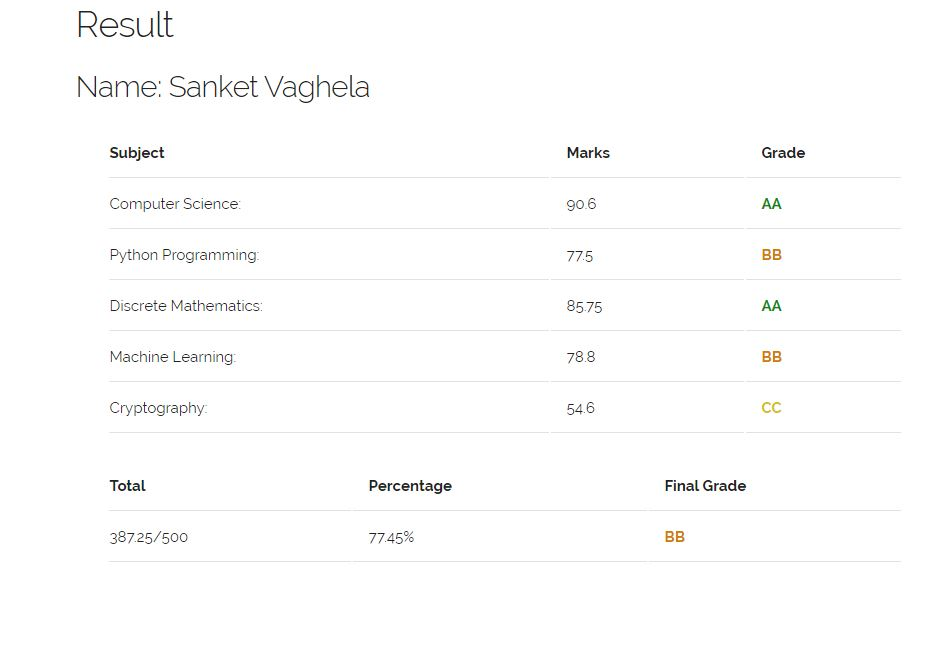
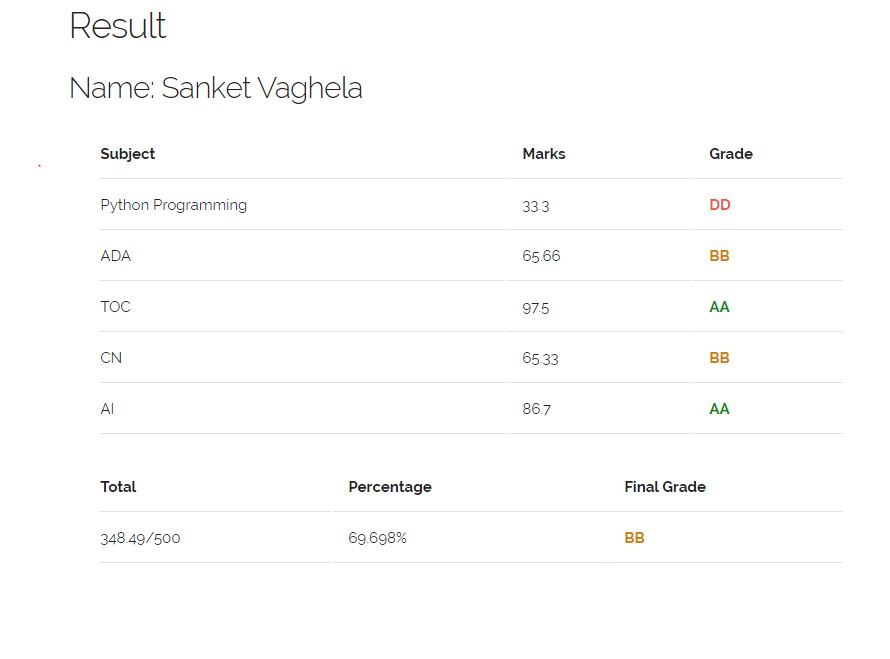
feat:Dynamic subject name

diff --git a/Day-3/Task-4-calc-marks/display.php b/Day-3/Task-4-calc-marks/display.php
@@ -24,20 +24,6 @@
 <body>
 	<div class="container">
 		<?php 
-			$name = $_GET['name'];
-			$computerScience = (double)$_GET['computer-science'];
-			$pythonProgramming = (double)$_GET['python-programming'];
-			$discreteMathematics = (double)$_GET['discrete-mathematics'];
-			$machineLearning = (double)$_GET['machine-learning'];
-			$cryptography = (double)$_GET['cryptography'];
-			$marks = Array($computerScience, $pythonProgramming, $discreteMathematics,$machineLearning, $cryptography);
-			
-			//marks validation
-			for ($i=0; $i < count($marks); $i++) { 
-				if($marks[$i] < 0 || $marks[$i] > 100)
-					header("location: index.php");
-			}
-			$isStudentFail = false;
 
 			function getGrade($marks){
 				global $isStudentFail;
@@ -61,6 +47,11 @@
 				return $grade;
 			}
 
+			$name = $_GET['name'];
+			$i = 1;
+			$totalMarks = 0;
+			$totalSocredMarks = 0; 
+		
 		?>
 		<h3>Result</h3>
 		<h4>Name: <?php echo "$name"; ?></h4>
@@ -73,36 +64,23 @@
 				</tr>
 			</thead>
 			<tbody>
-				<tr>
-					<td>Computer Science:</td>
-					<td><?php echo "$computerScience"; ?></td>
-					<td><?php echo getGrade($computerScience); ?></td>
-				</tr>
-				<tr>
-					<td>Python Programming:</td>
-					<td><?php echo "$pythonProgramming"; ?></td>
-					<td><?php echo getGrade($pythonProgramming); ?></td>
-				</tr>
-				<tr>
-					<td>Discrete Mathematics:</td>
-					<td><?php echo "$discreteMathematics"; ?></td>
-					<td><?php echo getGrade($discreteMathematics); ?></td>
-				</tr>
-				<tr>
-					<td>Machine Learning:</td>
-					<td><?php echo "$machineLearning"; ?></td>
-					<td><?php echo getGrade($machineLearning); ?></td>
-				</tr>
-				<tr>
-					<td>Cryptography:</td>
-					<td><?php echo "$cryptography"; ?></td>
-					<td><?php echo getGrade($cryptography); ?></td>
-				</tr>
-				<?php 
-					$totalMarks = count($marks) * 100;
-					$totalSocredMarks = array_sum($marks); 
-					
-					$percentage = $totalSocredMarks / $totalMarks * 100;
+			<?php 
+				foreach ($_GET as $key => $value) {
+					if ($key == 'submit' || $key == 'name') {
+						continue;
+					}
+					if($i % 2 == 1){ 
+						$totalMarks += 100;
+						echo "<tr><td>$value</td>";
+					}else{
+						$marks = (double)$value;
+						$totalSocredMarks += $marks;
+						echo "<td>$marks</td>";
+						echo "<td>".getGrade($marks)."</td></tr>";
+					}
+					$i++; 
+				}
+				$percentage = $totalSocredMarks / $totalMarks * 100;
 				?>
 			</tbody>
 		</table>

diff --git a/Day-3/Task-4-calc-marks/index.php b/Day-3/Task-4-calc-marks/index.php
@@ -24,30 +24,21 @@
 			<input type="text" id="name" class="six columns" placeholder="What's your name?" name="name" maxlength="20" required>
 			</div>
 
-			<div class="row">
-				<label for="computerScience" class="two columns">Computer Science: </label>
-			<input type="text" id="computerScience" class="six columns" placeholder="What's your Computer Science marks?" name="computer-science"  required>
-			</div>
+
 
 			<div class="row">
-				<label for="pythonProgramming" class="two columns">Python Programming: </label>
-			<input type="text" id="pythonProgramming" class="six columns" placeholder="What's your Python Programming marks?" name="python-programming"  required>
+				<label class="six columns">Subject Name</label>
+				<label class="two columns">Marks</label>
 			</div>
 
-			<div class="row">
-				<label for="discreteMathematics" class="two columns">Discrete Mathematics: </label>
-			<input type="text" id="discreteMathematics" class="six columns" placeholder="What's your Discrete Mathematics marks?" name="discrete-mathematics"  required>
-			</div>
 
+			<?php for ($i=1; $i <= 5; $i++) { ?>
 			<div class="row">
-				<label for="machineLearning" class="two columns">Machine Learning: </label>
-			<input type="text" id="machineLearning" class="six columns" placeholder="What's your Machine Learning marks?" name="machine-learning" required>
+					<input type="text" class="six columns" placeholder="What's your subject <?php echo $i ?> name?" name="<?php echo "subjectName$i" ?>" required>
+					<input type="text" class="two columns" placeholder="Marks" name="<?php echo "marks$i" ?>"  required>
 			</div>
+			<?php } ?>
 
-			<div class="row">
-				<label for="cryptography" class="two columns">Cryptography: </label>
-			<input type="text" id="cryptography" class="six columns" placeholder="What's your Cryptography marks?" name="cryptography"  required>
-			</div>
 
 			<div class="row" style="margin-top: 10px;">
 				<input type="submit" class="button button-primary eight columns" name="submit" value="Get result">
